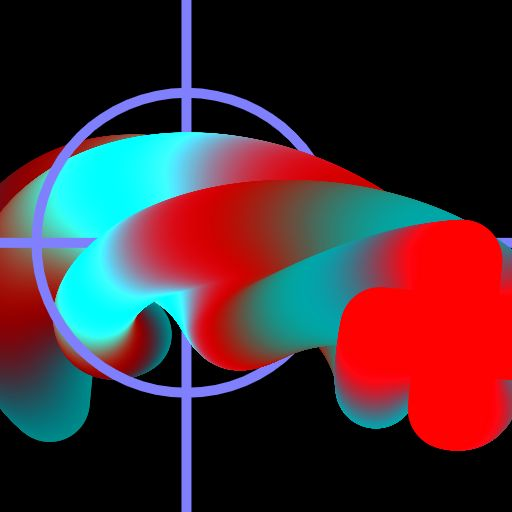
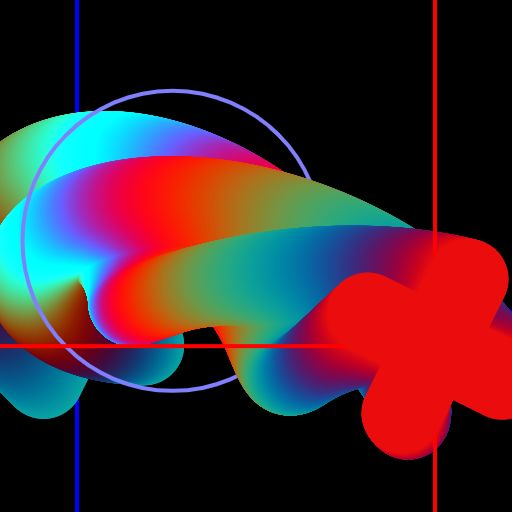
torsade medusa

diff --git a/sketches/churros/churros-v9-pasta-fixer/index.js b/sketches/churros/churros-v9-pasta-fixer/index.js
@@ -156,11 +156,15 @@ function drawGrid(xCount, yCount, time) {
 
   strokeWeight(3)
 
+  // stroke(
+  //   128,
+  //   128,
+  //   255,
+  //   // map(sin(time), -1, 1, 0, 100)
+  // );
+
   stroke(
-    128,
-    128,
-    255,
-    // map(sin(time), -1, 1, 0, 100)
+    255
   );
 
   const offset = 0;
@@ -182,7 +186,7 @@ sketch.draw((time) => {
 
 
   // drawGrid(1, 1, time/4);
-  //drawGrid(2, 2, -time/2 );
+  drawGrid(2, 2, -time/2 );
   //drawGrid(0, 0, time );
 
   // translate(width / 2, height / 2);
@@ -212,50 +216,47 @@ sketch.draw((time) => {
       const l = map(cos(lerpIndex-time/5), -1, 1, -1.5, 1.5);
 
       translate(
-        // width/2,
+        //width/2,
         map(sin(lerpIndex-time*2), -1, 1, width/2-200, width/2+200),
-        map(lerpIndex, lerpMin, lerpMax,
-          map(cos(time+lerpIndex), -1, 1, 150, height-150),
-          map(sin(-time+lerpIndex), -1, 1, 150, height-150), true
-        ),
-        // map(lerpIndex, lerpMin, lerpMax, 150, height-150, true)
+        // map(lerpIndex, lerpMin, lerpMax,
+        //   map(cos(time+lerpIndex), -1, 1, 150, height-150),
+        //   map(sin(-time+lerpIndex), -1, 1, 150, height-150), true
+        // )
+        map(lerpIndex, lerpMin, lerpMax, 150, height-150, true)
       );
 
-      strokeWeight(4)
+      strokeWeight(3)
       stroke(
         128,
         128,
-        255,
-        // map(sin(time), -1, 1, 0, 100)
+        255
       );
 
-
-      const cursorSpeed = 200
+      const cursorSpeed = 150
       const cursorIndex = Math.ceil(time*cursorSpeed)%400;
-      // const cursorIndex = map(mouseX, 0, width, lerpMin, lerpMax, true);
       const shapeIndex = map(lerpIndex, lerpMin, lerpMax, 0, options.get('quality'), true);
 
       if (Math.ceil(shapeIndex) == cursorIndex) {
           // stroke('red')
-        // line(-width, 0, width, 0)
-        // line(0, -height, 0, height)
+        line(-width, 0, width, 0)
+        line(0, -height, 0, height)
         noFill()
         circle(0, 0, 300)
       }
-
-      if (lerpIndex+lerpStep > lerpMax ) {
-        stroke('red')
-        line(-width, 0, width, 0)
-        line(0, -height, 0, height)
+      
+      if (Math.ceil(shapeIndex) > cursorIndex) {
+        rotate(time*options.get('rotation-speed')+lerpIndex*4*options.get('rotation-count'));
+      }
+      else {
+        rotate(time*options.get('rotation-speed')+lerpIndex*options.get('rotation-count'));
       }
 
-      if (lerpIndex-lerpStep < lerpMin ) {
-        stroke('blue')
-        line(-width, 0, width, 0)
-        line(0, -height, 0, height)
-      }
+      // if (lerpIndex+lerpStep > lerpMax ) {
+      //   // stroke('red')
+      //   line(-width, 0, width, 0)
+      //   line(0, -height, 0, height)
+      // }
 
-      rotate(time*options.get('rotation-speed')+lerpIndex*2*options.get('rotation-count'));
     },
     ( lerpIndex, lerpMin, lerpMax, time, index ) => {
 
@@ -294,6 +295,12 @@ sketch.draw((time) => {
 
       //const weight = map(cos(lerpIndex/2-time*3), 0, 1, 25, options.get("lines-weight"), true);
 
+      const cursorSpeed = 150
+      const cursorIndex = Math.ceil(time*cursorSpeed)%400;
+      const shapeIndex = map(lerpIndex, lerpMin, lerpMax, 0, options.get('quality'), true);
+
+      
+      let colorOn = Math.ceil(shapeIndex) > cursorIndex;
 
       const lineMin = -PI;
       const lineMax = PI;
@@ -312,6 +319,12 @@ sketch.draw((time) => {
         strokeWeight(options.get("lines-weight"));
         //strokeWeight(weight);
 
+
+        if (!colorOn) {
+          opacityFactor *= 1.5
+        }
+
+
         const hueSpeed = -time * options.get("hue-speed");
         const c = color(
           map(sin(hueSpeed+lerpIndex*5), -1, 1, 0, 360) /
@@ -320,9 +333,11 @@ sketch.draw((time) => {
             opacityFactor,
           map(sin(hueSpeed+lerpIndex*5), -1, 1, 360, 0) /
             opacityFactor,
-          // map(lerpIndex, lerpMin, lerpMax, 0, 100)
         )
     
+        //colorOn && 
+        
+        
         stroke( c );
       
         vertex(vector.x, vector.y);
@@ -335,6 +350,4 @@ sketch.draw((time) => {
     time,
     0
   )
-
-  shapes.forEach((shape, index) => shape.draw(time, index));
 });

diff --git a/sketches/torsade/torsade-v13-medusa/index.js b/sketches/torsade/torsade-v13-medusa/index.js
@@ -42,8 +42,8 @@ class Spiral {
     push();
     translate(position.x, position.y);
 
-    const shadowsCount = map(sin(time), -1, 1, 15, 7.5)
-    const shadowIndexStep = 0.05; //map(sin(time), -1, 1, 0.2, 0.05);
+    const shadowsCount = 10//map(sin(time), -1, 1, 15, 5)
+    const shadowIndexStep = 0.03; //map(sin(time), -1, 1, 0.2, 0.05);
 
     for (
       let shadowIndex = 0;
@@ -56,13 +56,13 @@ class Spiral {
         push()
 
         const angleVector = converters.polar.vector(
-          angle+time,// + (index % 2 ? -time : time) * 1 - radians(7),
-          size/map(shadowIndex, 0, shadowsCount, 4, 1)
+          angle-time,// + (index % 2 ? -time : time) * 1 - radians(7),
+          size/map(shadowIndex, 0, shadowsCount, 5, 1)
         );
 
         translate(angleVector.x, angleVector.y);
 
-        let linesCount = 3//map(cos(angle-time*3), 0, 1, 1, 3, true);
+        let linesCount = 3//map(cos(time), 0, 1, 1, 3, true);
         let opacityFactor = mappers.circularMap(
           shadowIndex,
           // 1,
@@ -82,9 +82,10 @@ class Spiral {
 
         push();
         const rotationSpeed = -time * 3;
+        const rotationMax = map(sin(time/2), -1, 1, 1, 5);
 
         rotate(
-          rotationSpeed+map(shadowIndex, 0, shadowsCount, 1, 2),
+          rotationSpeed+map(shadowIndex, 0, shadowsCount, 0, rotationMax),
         );
       
         for (let lineIndex = lineMin; lineIndex < lineMax; lineIndex += lineStep) {
@@ -92,7 +93,6 @@ class Spiral {
             lineIndex,
             // map(shadowIndex, 0, shadowsCount, 1, 150),
             map(sin(time), -1, 1, 50, 150, true)
-            // map(lerpIndex, lerpMin, lerpMax, 1, options.get('lines-length'), true)
           );
           beginShape();
           // strokeWeight(map(shadowIndex, 0, shadowsCount, 160, 10));
@@ -113,20 +113,21 @@ class Spiral {
           // fill( hue );
           stroke( hue );
 
-          // if ( shadowIndex + shadowIndexStep >= shadowsCount) {
-          //   strokeWeight(4)
-          //   stroke(red(hue) -10 , green(hue) -10 , blue(hue) - 10 );
-          // }
-          // else {
-          //   noStroke()
-          // }
+          if ( shadowIndex + shadowIndexStep >= shadowsCount) {
+            strokeWeight(4)
+            const reduceFactor = 32;
+            stroke(red(hue) -reduceFactor , green(hue) -reduceFactor , blue(hue) - reduceFactor );
+          }
+          else {
+            // noStroke()
+          }
 
           vertex(vector.x, vector.y);
           vertex(vector.x, vector.y);
 
 
           const wMax = map(sin(time), -1, 1, 50, 100);
-          strokeWeight(map(shadowIndex, 0, shadowsCount, 0, wMax));
+          strokeWeight(map(shadowIndex, 0, shadowsCount, 0, wMax, true));
 
           
           // noStroke()
@@ -153,9 +154,11 @@ sketch.draw((time) => {
   strokeWeight(4)
   stroke(128, 128, 255)
   const size = map(-sin(time), -1, 1, width / 6, width-10)
-
+  const xOffset = sin(time*5) * 30;
+  const yOffset = cos(time*5) * 30;
   for (let i = 2; i < count; i++) {
-    circle(width / 2, height / 2, i * size/6 * i);
+    
+    circle(width / 2 - xOffset, height / 2 - yOffset, i * size/5 * i);
   }
 
   shapes.forEach((shape, index) => shape.draw(time, index));

diff --git a/sketches/torsade/torsade-v10-rabbit-hole/index.js b/sketches/torsade/torsade-v10-rabbit-hole/index.js
@@ -67,7 +67,7 @@ class Spiral {
         map(sin(time*2), -1, 1, -l, l),
         map(cos(time), -1, 1, -l, l)
       );
-      const angleStep = TAU / 15//map(sin(time), -1, 1, 3, 15);
+      const angleStep = TAU / 14//map(sin(time), -1, 1, 3, 15);
 
       for (let angle = 0; angle < TAU; angle += angleStep) {
         push();
@@ -76,10 +76,11 @@ class Spiral {
           size/map(shadowIndex, 0, shadowsCount, 5, 1/5)
         );
 
-      let opacityFactor = map(sin(shadowIndex/5-time*5+angle), -1, 1, 1, 15);
+      let opacityFactor = map(sin(shadowIndex/5-time*5+angle*2), -1, 1, 1, 15);
 
         beginShape();
         strokeWeight(weight);
+        // strokeWeight(map(shadowIndex, 0, shadowsCount, weightRange[1], weightRange[0]*2));
         // strokeWeight(map(sin(2*time+angle+shadowIndex*2),-1, 1, weightRange[0], weightRange[1]));
         stroke(
           color(

diff --git a/sketches/torsade/torsade-v13-medusa/index.html b/sketches/torsade/torsade-v13-medusa/index.html
@@ -1,0 +1,1 @@
+../../../assets/html/index.html
